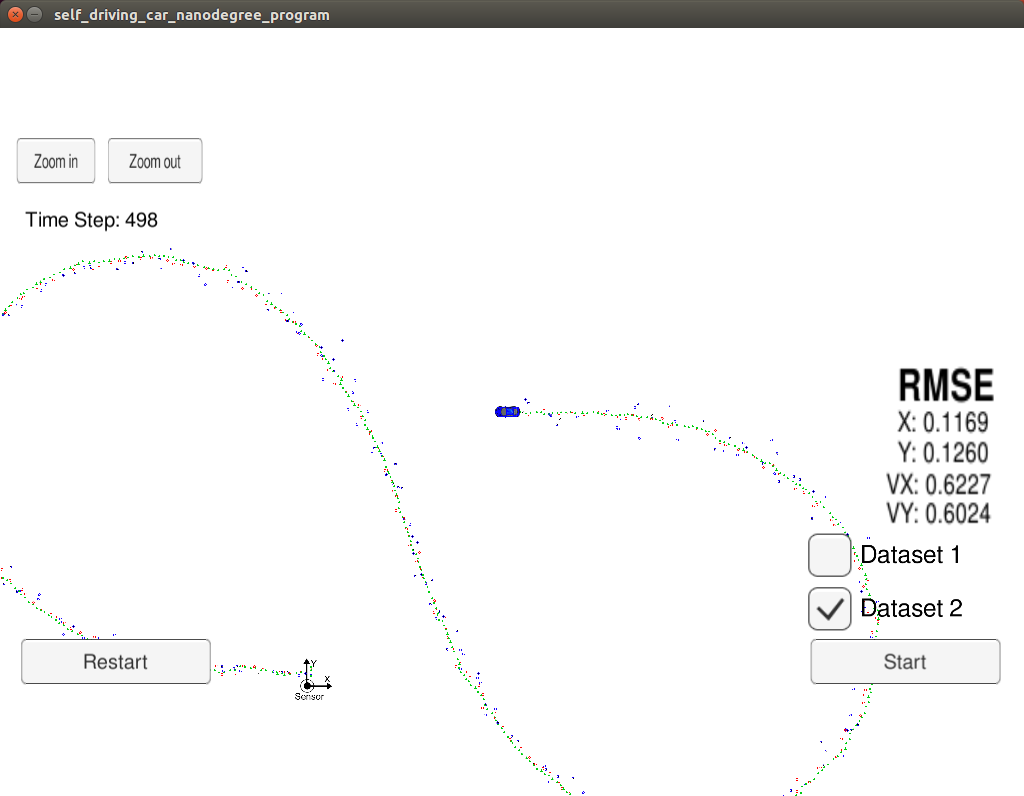
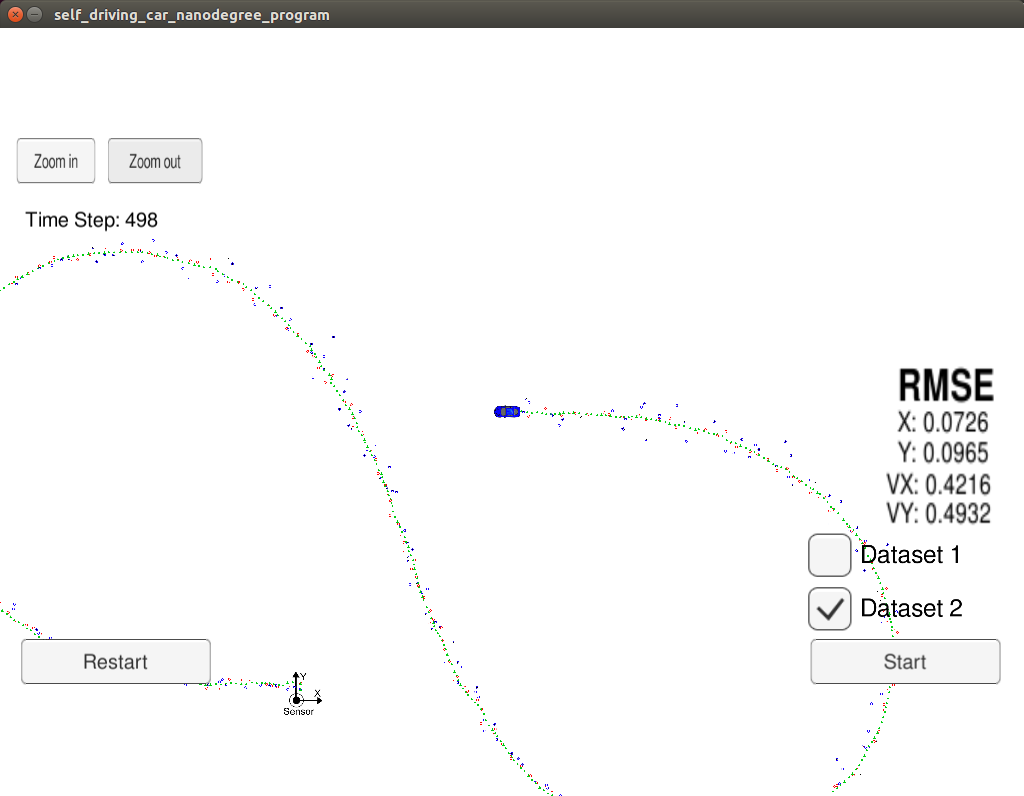
Updare EKF & kalman calculation

diff --git a/src/FusionEKF.cpp b/src/FusionEKF.cpp
@@ -32,9 +32,6 @@ FusionEKF::FusionEKF() {
               0, 0.0009, 0,
               0, 0, 0.09;
 
-  
-  noise_ax = 9;
-  noise_ay = 9;
   //Measurement matrix - LIDAR
   H_laser_ << 1, 0, 0, 0,
               0, 1, 0, 0;
@@ -44,12 +41,6 @@ FusionEKF::FusionEKF() {
          1, 1, 0, 0,
          1, 1, 1, 1; 
 
-  //Initial transition matrix F_
-  ekf_.F_ = MatrixXd(4, 4);
-  ekf_.F_ << 1, 0, 1, 0,
-             0, 1, 0, 1,
-             0, 0, 1, 0,
-             0, 0, 0, 1;
 
   //State covariance matrix P
   ekf_.P_ = MatrixXd(4, 4);
@@ -122,27 +113,32 @@ void FusionEKF::ProcessMeasurement(const MeasurementPackage &measurement_pack) {
    //compute the time elapsed between the current and previous measurements
    float dt = (measurement_pack.timestamp_ - previous_timestamp_) / 1000000.0;	//dt - expressed in seconds
    previous_timestamp_ = measurement_pack.timestamp_;
-   if( dt > 0.001 ) 
-   { 
-	 float dt_2 = dt   * dt;
-	 float dt_3 = dt_2 * dt;
-	 float dt_4 = dt_3 * dt;
 
-	 //Modify the F matrix so that the time is integrated
-	 ekf_.F_(0, 2) = dt;
-	 ekf_.F_(1, 3) = dt;
+  // State transition matrix update
+  ekf_.F_ = MatrixXd(4, 4);
+  ekf_.F_ << 1, 0, dt, 0,
+             0, 1, 0, dt,
+             0, 0, 1, 0,
+             0, 0, 0, 1;
 
-	
+   // Noise covariance matrix computation
+   // Noise values from the task
+   double noise_ax = 9.0;
+   double noise_ay = 9.0;
 
-	 //set the process covariance matrix Q
-	 ekf_.Q_ = MatrixXd(4, 4);
-	 ekf_.Q_ << dt_4 / 4 * noise_ax, 0, dt_3 / 2 * noise_ax, 0,
-	          0, dt_4 / 4 * noise_ay, 0, dt_3 / 2 * noise_ay,
-	          dt_3 / 2 * noise_ax, 0, dt_2*noise_ax, 0,
-	          0, dt_3 / 2 * noise_ay, 0, dt_2*noise_ay;
+   double dt_2 = dt * dt; //dt^2
+   double dt_3 = dt_2 * dt; //dt^3
+   double dt_4 = dt_3 * dt; //dt^4
+   double dt_4_4 = dt_4 / 4; //dt^4/4
+   double dt_3_2 = dt_3 / 2; //dt^3/2
+   ekf_.Q_ = MatrixXd(4, 4);
+   ekf_.Q_ << dt_4_4 * noise_ax, 0, dt_3_2 * noise_ax, 0,
+	         0, dt_4_4 * noise_ay, 0, dt_3_2 * noise_ay,
+	         dt_3_2 * noise_ax, 0, dt_2 * noise_ax, 0,
+ 	         0, dt_3_2 * noise_ay, 0, dt_2 * noise_ay;
 
-	 ekf_.Predict();
-   }
+
+   ekf_.Predict();
 
   /**
    * Update
@@ -154,13 +150,15 @@ void FusionEKF::ProcessMeasurement(const MeasurementPackage &measurement_pack) {
    * - Update the state and covariance matrices.
    */
 
-  if (measurement_pack.sensor_type_ == MeasurementPackage::RADAR) {
+  if (measurement_pack.sensor_type_ == MeasurementPackage::RADAR) 
+  {
     // Radar updates
     // Use Jacobian instead of H
     Tools tools;
     Hj_ = tools.CalculateJacobian(ekf_.x_);
     ekf_.H_ = Hj_;
     ekf_.R_ = R_radar_;
+	ekf_.UpdateEKF(measurement_pack.raw_measurements_);
 
   } else {
    // Laser updates

diff --git a/src/kalman_filter.cpp b/src/kalman_filter.cpp
@@ -30,9 +30,7 @@ void KalmanFilter::Predict() {
 
 void KalmanFilter::Update(const VectorXd &z) {
   //Update the state by using Kalman Filter equations for LIDAR
-  VectorXd z_pred = H_ * x_;
-  VectorXd y = z - z_pred;
-  
+  VectorXd y = z - H_ * x_;
   UpdateMeasurement(y);
 }
 
@@ -44,30 +42,19 @@ void KalmanFilter::UpdateEKF(const VectorXd &z) {
   float vx = x_[2];
   float vy = x_[3];
 
-  //Checking the value is not zero
-  if(px == 0. && py == 0.)
-    return;
-  
-  float rho = sqrt(px*px + py*py);
-  float theta = atan2(py, px);
-  
-  //Checking the value is not zero
-  if (rho < 0.0001) {
-    rho = 0.0001;
-  } 
-  float rho_dot = (px*vx + py*vy) / rho;
-  
-
-  //Finding h(x)
-  VectorXd h = VectorXd(3); // h(x_)
+  double rho = sqrt(px*px + py*py);
+  double theta = atan2(py, px);
+  double rho_dot = (px*vx + py*vy) / rho;
+  VectorXd h = VectorXd(3);
   h << rho, theta, rho_dot;
-  VectorXd y = z-h;
-
-  //Normalize the angle between -pi to pi
-  while (y[1] < -M_PI)
-    y[1] += 2 * M_PI;
-  while (y[1] > M_PI)
-    y[1] -= 2 * M_PI;
+  VectorXd y = z - h;
+  while ( y(1) > M_PI || y(1) < -M_PI ) {
+    if ( y(1) > M_PI ) {
+      y(1) -= M_PI;
+    } else {
+      y(1) += M_PI;
+    }
+  }
 
   UpdateMeasurement(y);
 }
